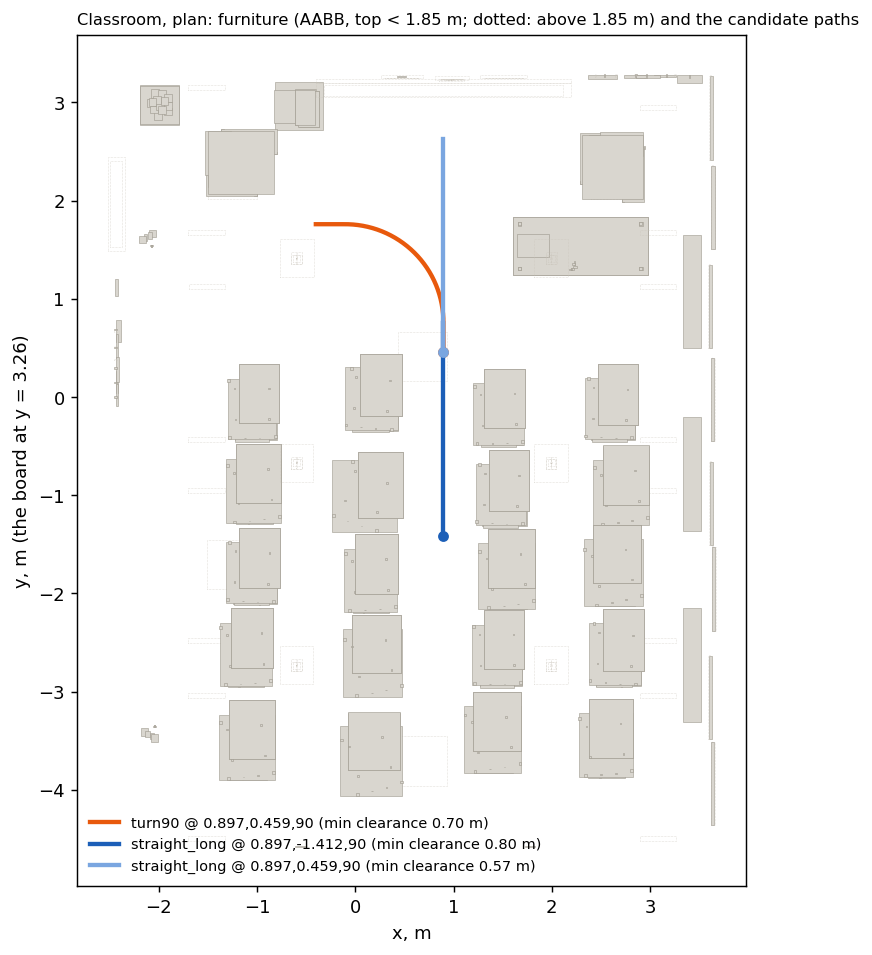
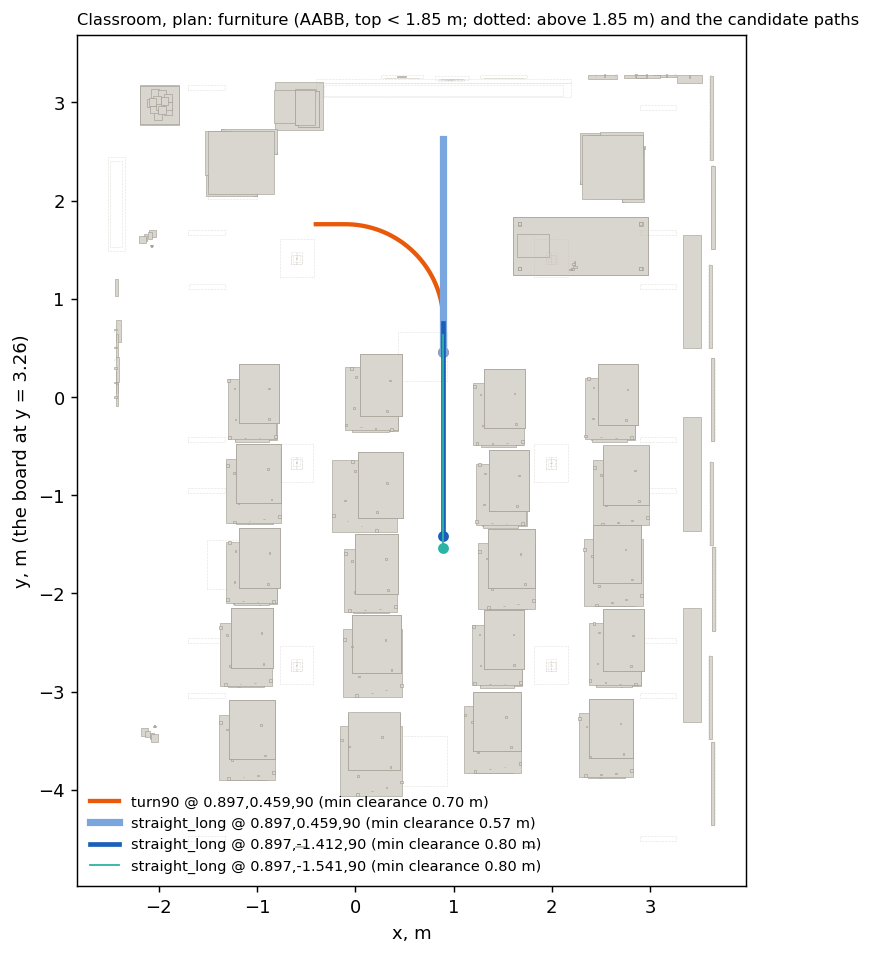
Classroom proposal: a sixth candidate, the straight 2.0 m behind the turn as in the calibration room
Refs #7

straight_long @ (0.897, -1.541, 90), h 1.6: min clearance 0.801 m (desk Box280.002 at s = 0.26 m). cand_poses.json
is now written beside the script; the plan figure draws every straight on the aisle's line.

Changed region(s): [[0.0929, 0.8199, 0.6193, 0.911], [0.4954, 0.1518, 0.5264, 0.577]]

diff --git a/docs/runs/issue-7/code/classroom/clearance.py b/docs/runs/issue-7/code/classroom/clearance.py
@@ -24,6 +24,8 @@ def host(out):
         "turn90 @ 0.897,0.659,90": ("turn90", (0.897, 0.659), 90.0),
         "straight_long @ 0.897,-1.412,90": ("straight_long", (0.897, -1.412), 90.0),
         "straight_long @ 0.897,0.459,90": ("straight_long", (0.897, 0.459), 90.0),
+        # the calibration room's pairing: the straight starts 2.0 m behind the turn (#7's commands: 0,-2 and 0,0)
+        "straight_long @ 0.897,-1.541,90": ("straight_long", (0.897, -1.541), 90.0),
     }
     rec = {}
     for name, (kind, p0, hd) in cands.items():
@@ -96,11 +98,12 @@ def plot(cands_json, result_json, png):
             ax.add_patch(Rectangle((x0, y0), x1 - x0, y1 - y0, fc="#d9d6cf", ec="#9a958a", lw=0.3))
         elif z0 > 1.85 and (x1 - x0) < 4 and (y1 - y0) < 4:
             ax.add_patch(Rectangle((x0, y0), x1 - x0, y1 - y0, fc="none", ec="#c9c4ba", lw=0.3, ls=":"))
-    cols = {"turn90 @ 0.897,0.459,90": "#e8590c", "straight_long @ 0.897,-1.412,90": "#1c5fb8",
-            "straight_long @ 0.897,0.459,90": "#7aa6e0"}
-    for name, col in cols.items():
+    # the straights share the aisle's line; drawn thinner in turn so each one's span and start dot show
+    cols = {"turn90 @ 0.897,0.459,90": ("#e8590c", 2.4), "straight_long @ 0.897,0.459,90": ("#7aa6e0", 4.0),
+            "straight_long @ 0.897,-1.412,90": ("#1c5fb8", 2.6), "straight_long @ 0.897,-1.541,90": ("#2bb3a3", 1.0)}
+    for name, (col, lw) in cols.items():
         c = cands[name]["c"]
-        ax.plot([p[0] for p in c], [p[1] for p in c], color=col, lw=2.4,
+        ax.plot([p[0] for p in c], [p[1] for p in c], color=col, lw=lw,
                 label=f"{name} (min clearance {res[name]['min_clearance_m']:.2f} m)")
         ax.plot(c[0][0], c[0][1], "o", color=col, ms=5)
     ax.set_aspect("equal")
